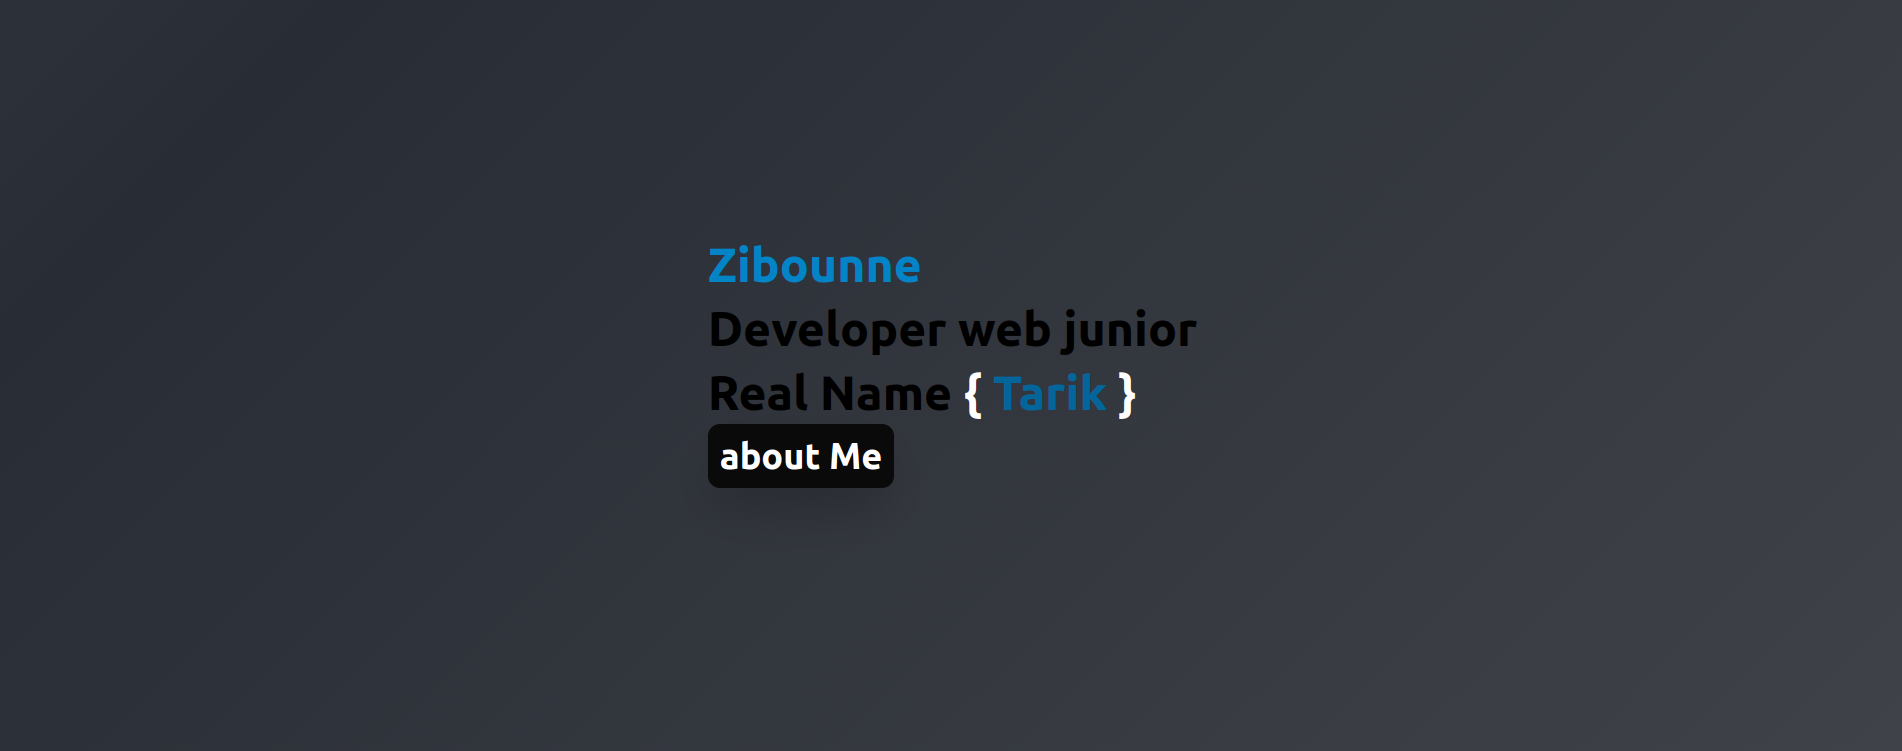
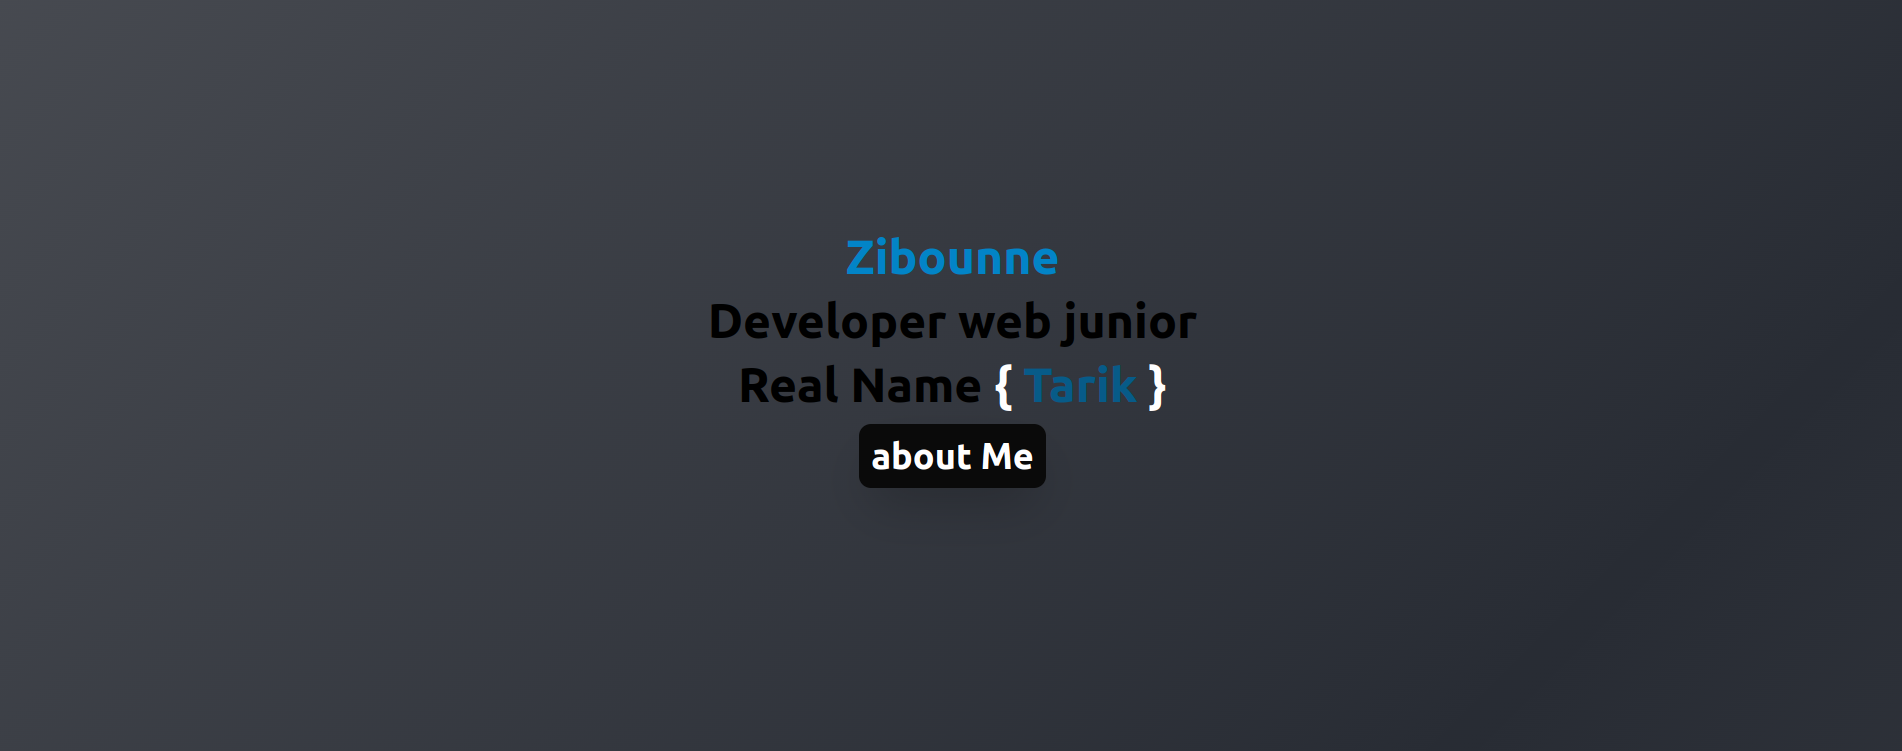
Update : Home section 1

Changed region(s): [[0.3722, 0.3063, 0.6204, 0.6738], [0.0, 0.0, 0.2171, 0.5206]]

diff --git a/src/styles/styles.css b/src/styles/styles.css
@@ -70,7 +70,7 @@ footer p span {
 }
 @keyframes slide {
   0% {
-    @apply w-[35%] bg-sky-600;
+    @apply w-[100%] bg-sky-600;
   }
   100% {
     @apply w-[0%] bg-sky-600;
@@ -199,19 +199,19 @@ footer p span {
   animation: gradientAnimation 20s ease infinite;
   @apply h-screen snap-start snap-always border-b-8 border-neutral-950 flex justify-center items-center;
 }
-#homeSection1 #homeSection1div2 {
-  @apply font-bold text-5xl;
+#homeSection1 #homeSection1div1 {
+  @apply font-bold text-5xl text-center;
 }
-#homeSection1 #homeSection1div2 p {
+#homeSection1 #homeSection1div1 p {
   @apply py-2 cursor-default;
 }
-#homeSection1 #homeSection1div2 a {
+#homeSection1 #homeSection1div1 a {
   @apply mt-5;
 }
-#homeSection1 #homeSection1div2 a button {
-  @apply p-2 border-4 border-neutral-950 bg-neutral-950 rounded-xl text-white transition duration-300 ease-in-out text-4xl shadow-2xl;
+#homeSection1 #homeSection1div1 a button {
+  @apply my-2 p-2 border-4 border-neutral-950 bg-neutral-950 rounded-xl text-white transition duration-300 ease-in-out text-3xl shadow-2xl;
 }
-#homeSection1 #homeSection1div2 a button:hover {
+#homeSection1 #homeSection1div1 a button:hover {
   @apply scale-105;
 }
 

diff --git a/src/styles/pages/home/_home.sass b/src/styles/pages/home/_home.sass
@@ -8,7 +8,7 @@
 
 @keyframes slide
     0%
-        @apply w-[35%] bg-sky-600
+        @apply w-[100%] bg-sky-600
     100%
         @apply w-[0%] bg-sky-600
 
@@ -104,14 +104,14 @@
     background-size: 400% 400%
     animation: gradientAnimation 20s ease infinite
     @apply h-screen snap-start snap-always border-b-8 border-neutral-950 flex justify-center items-center
-    #homeSection1div2
-        @apply font-bold text-5xl
+    #homeSection1div1
+        @apply font-bold text-5xl text-center
         p
             @apply py-2 cursor-default
         a
             @apply mt-5
             button
-                @apply p-2 border-4 border-neutral-950 bg-neutral-950 rounded-xl text-white transition duration-300 ease-in-out text-4xl shadow-2xl
+                @apply my-2 p-2 border-4 border-neutral-950 bg-neutral-950 rounded-xl text-white transition duration-300 ease-in-out text-3xl shadow-2xl
             button:hover
                 @apply scale-105
 

diff --git a/src/app/components/home/home.component.html b/src/app/components/home/home.component.html
@@ -1,6 +1,6 @@
 <section id="homeSection1">
-    <div id="homeSection1div2">
-        <p class="text-sky-600 slideText-Animation">Zibounne</p>
+    <div id="homeSection1div1">
+        <p class="text-sky-600 slideText-Animation m-auto flex justify-center items-center">Zibounne</p>
         <p>
             <span class="textReveal-Animation">Developer web </span>
             <span class="disappear-Animation">junior</span>
@@ -16,7 +16,7 @@
             <span class="text-white">{{' }'}}</span>
         </p>
         <a [routerLink]="['/about']">
-            <button class="blink-Animation">about Me</button>
+            <button class="blink-Animation">ABOUT ME</button>
         </a>
     </div>
 </section>
